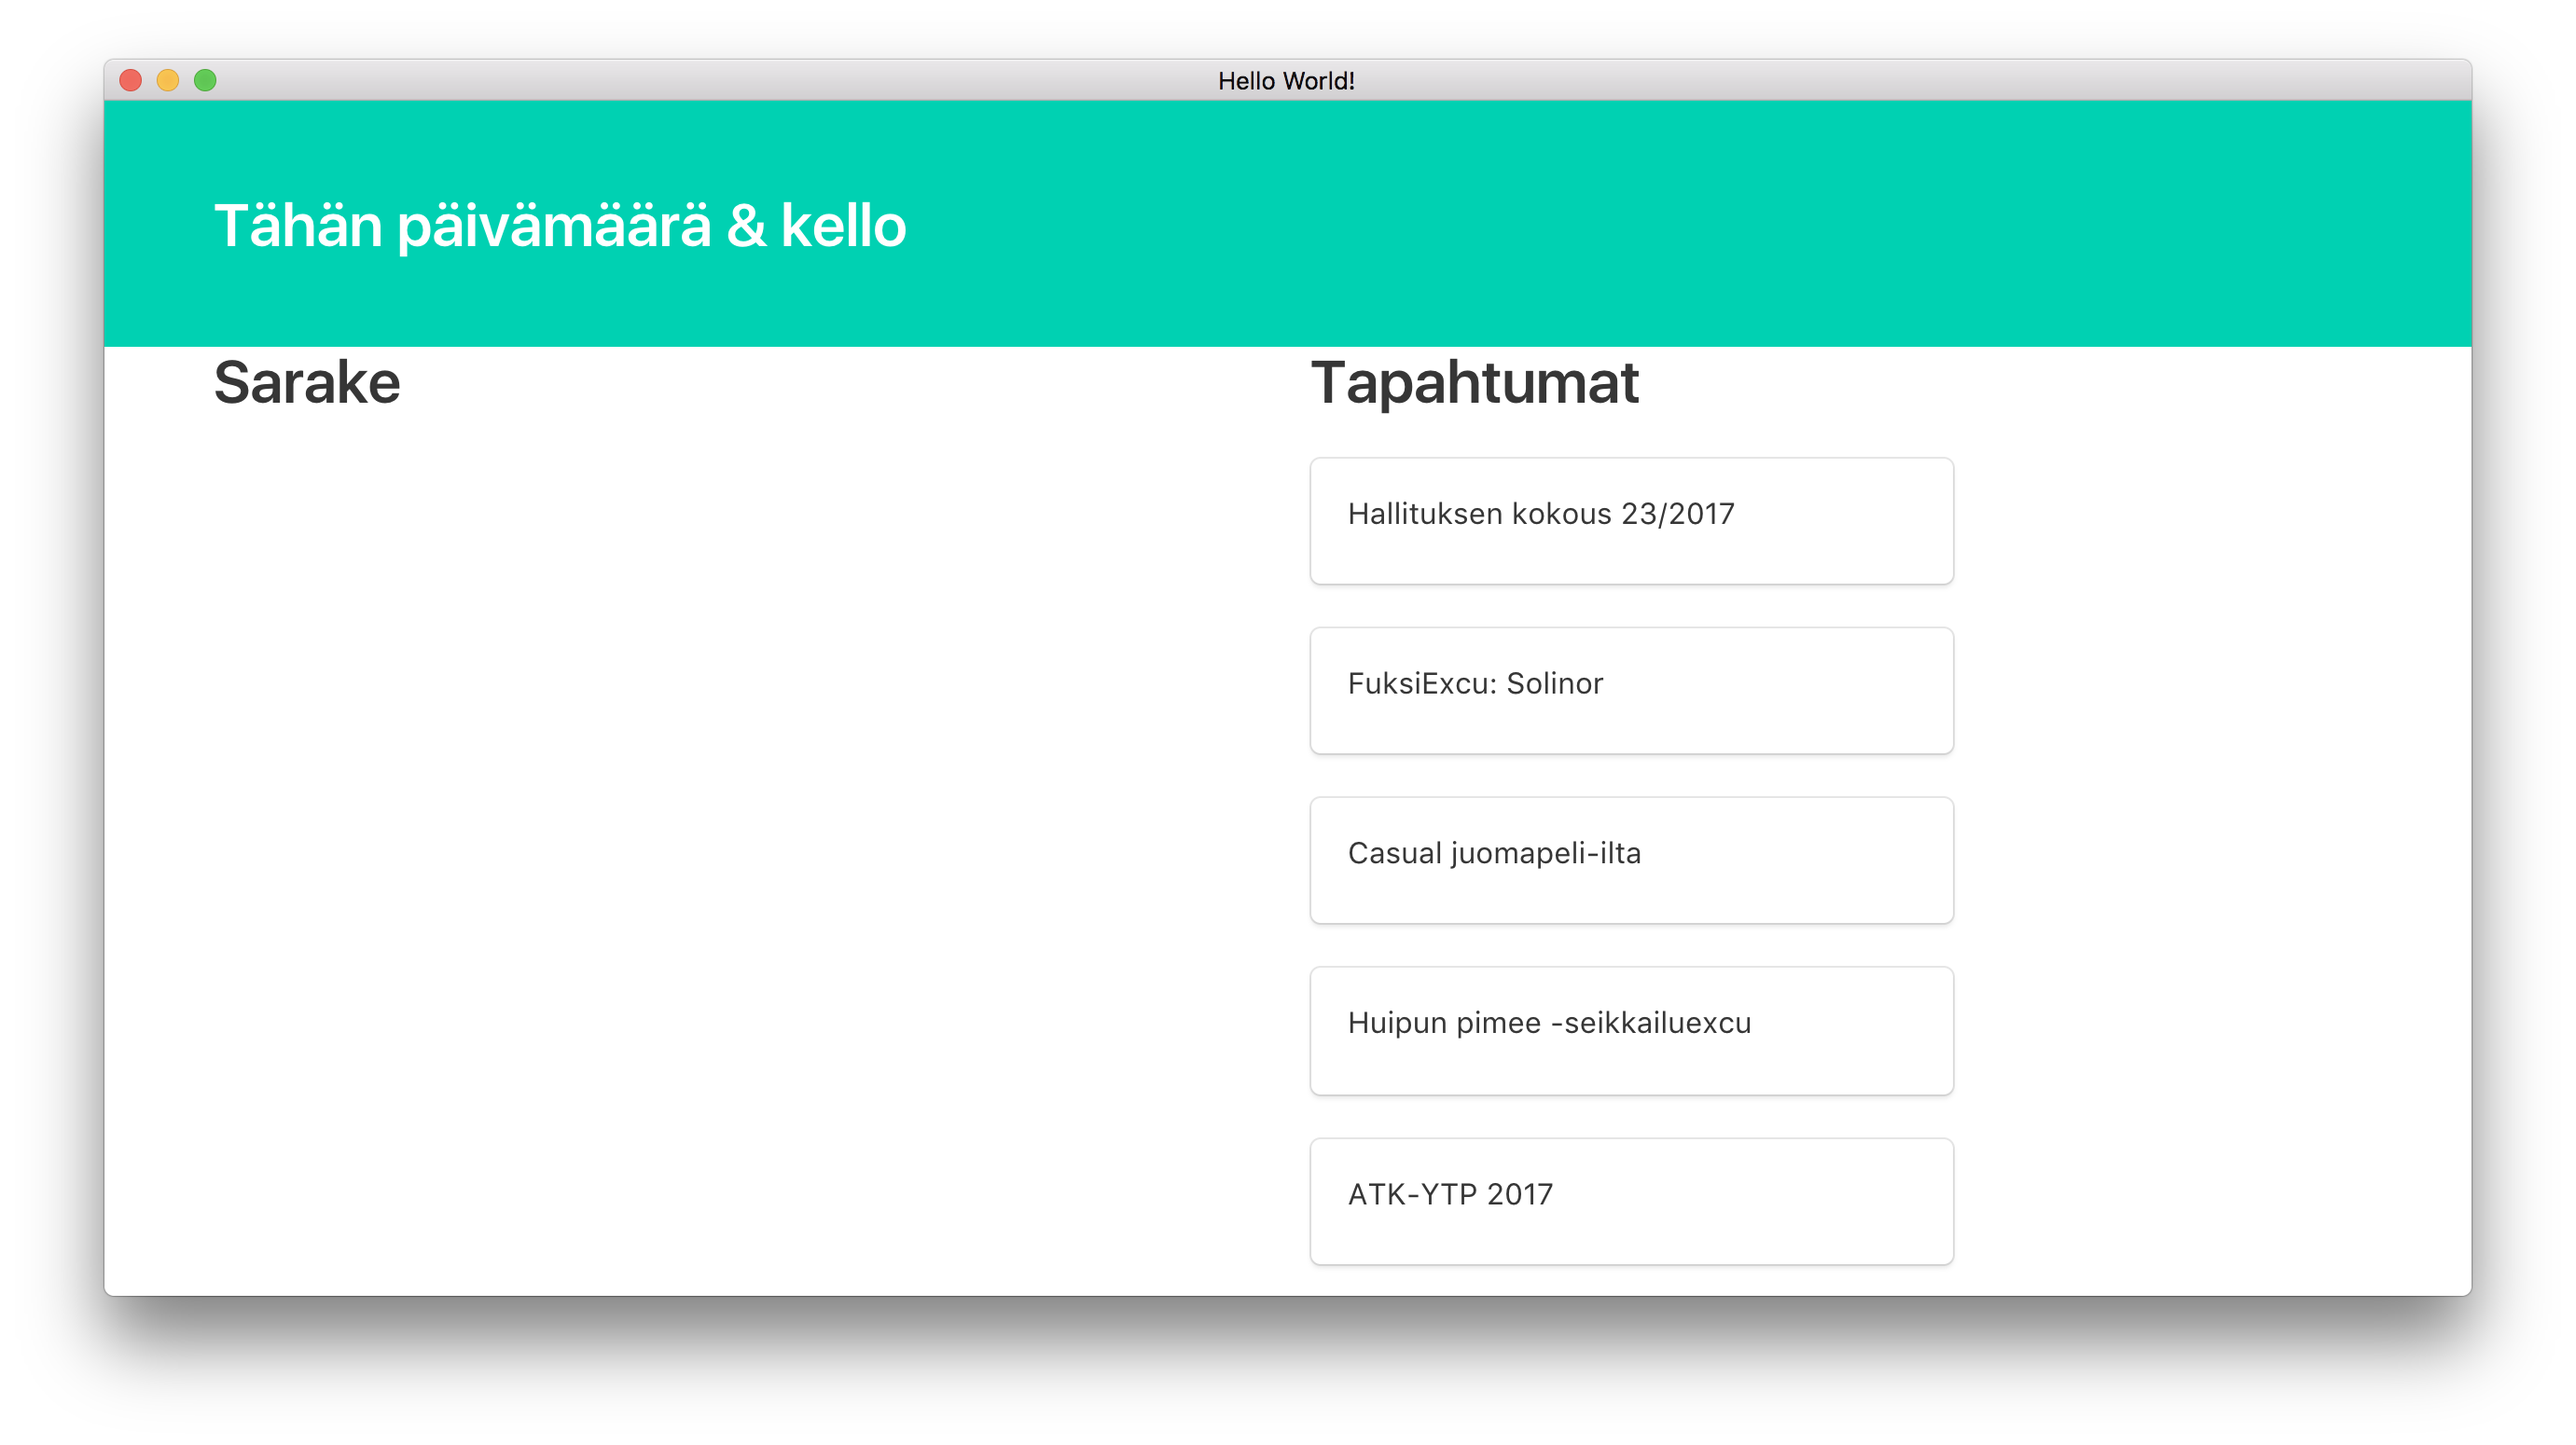
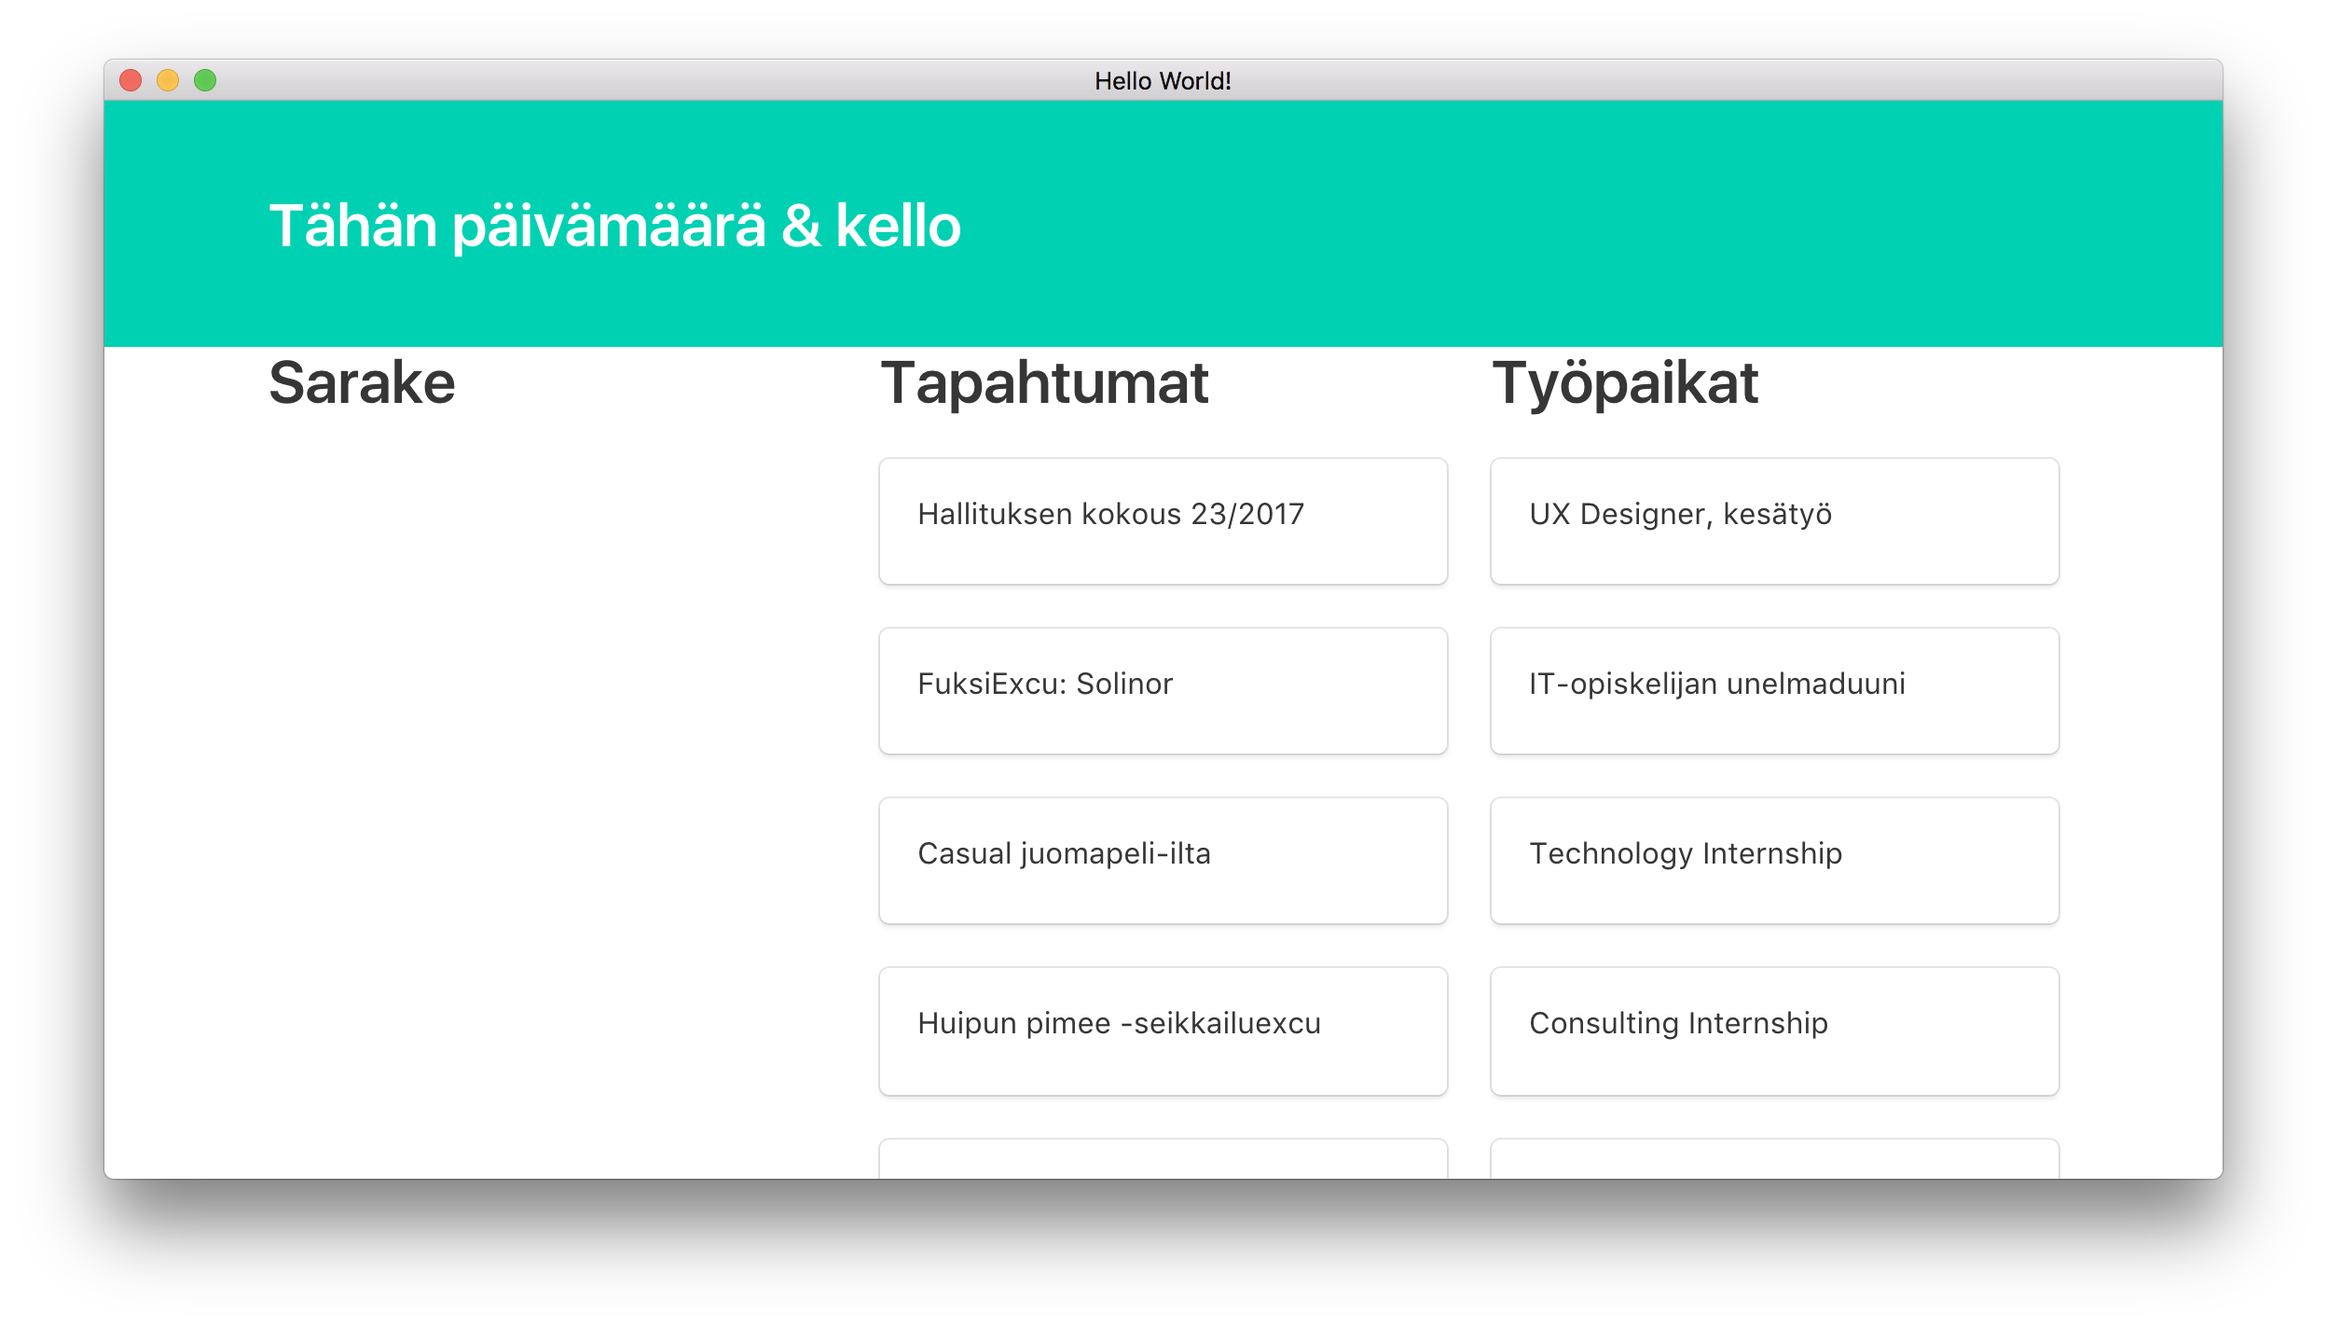
add jobs & update screenshot

diff --git a/app/src/components/App.js b/app/src/components/App.js
@@ -1,10 +1,11 @@
 import React from 'react'
 
 const Events = require('./sections/Events').default
+const Jobs = require('./sections/Jobs').default
 
 class App extends React.Component {
   render () {
-    const { events } = this.props
+    const { events, jobs } = this.props
     return (
       <div>
         <section className='hero is-primary'>
@@ -25,6 +26,9 @@ class App extends React.Component {
             </div>
             <div className='tile is-parent'>
               <Events events={events} />
+            </div>
+            <div className='tile is-parent'>
+              <Jobs jobs={jobs} />
             </div>
           </div>
         </div>

diff --git a/app/src/renderer.js b/app/src/renderer.js
@@ -3,8 +3,8 @@ const ReactDOM = require('react-dom')
 const App = require('./components/App').default
 
 const events = require('./integrations/calendar')
+const jobs = require('./integrations/jobs')
 
-Promise.all([events()]).then(([events]) => {
-  console.log(events)
-  ReactDOM.render(<App events={events} />, document.querySelector('.app'))
+Promise.all([events(), jobs()]).then(([events, jobs]) => {
+  ReactDOM.render(<App events={events} jobs={jobs} />, document.querySelector('.app'))
 })

diff --git a/app/src/components/sections/Jobs.js b/app/src/components/sections/Jobs.js
@@ -1,0 +1,19 @@
+import React from 'react'
+
+class Jobs extends React.Component {
+  render () {
+    const { jobs } = this.props
+    return (
+      <div>
+        <h1 className='title'>Työpaikat</h1>
+        {jobs.map(job => (
+          <div className='box content'>
+            <h2 className='title is-size-6'>{job.title}</h2>
+          </div>
+        ))}
+      </div>
+    )
+  }
+}
+
+export default Jobs

diff --git a/app/src/integrations/jobs.js b/app/src/integrations/jobs.js
@@ -1,0 +1,6 @@
+const axios = require('axios')
+const JOBS_URL = 'http://jobs-back.tko-aly.fi/jobs.json'
+
+module.exports = () =>
+  axios.get(JOBS_URL)
+    .then(res => res.data)
